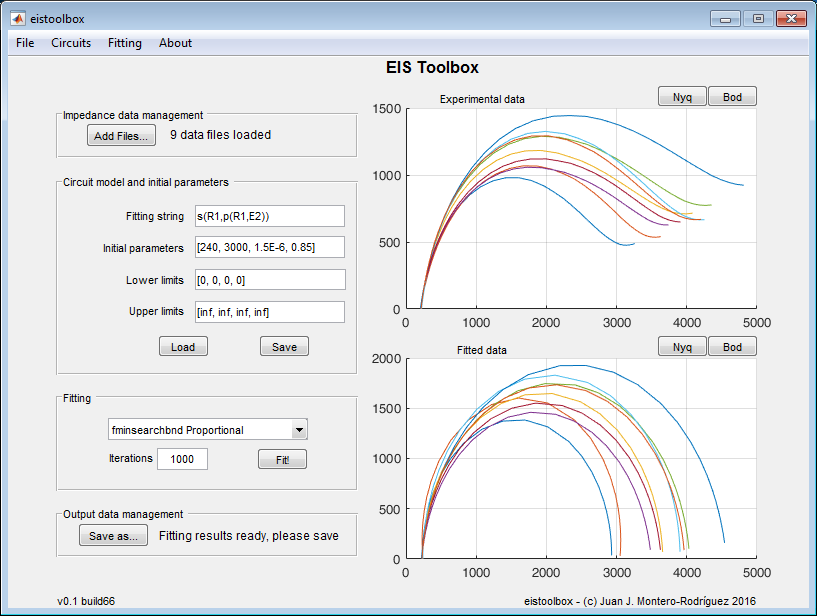
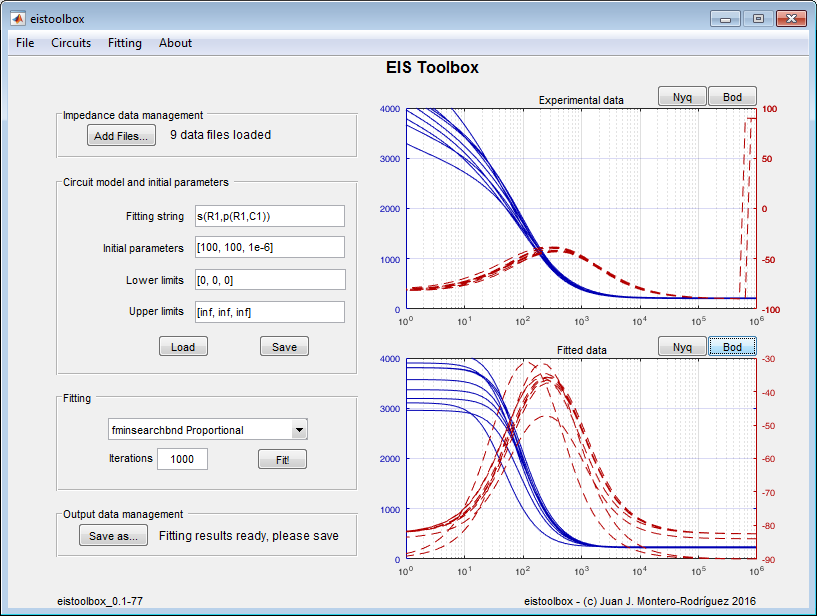
Better Bode plots

diff --git a/eistoolbox.m b/eistoolbox.m
@@ -252,18 +252,24 @@ function plotbod(hObject, eventdata, handles)
     
     % Now we plot all the acquired data from the files
     axes(handles.axes1); % Select the axes 1 for plotting input data (Nyquist)
-    cla reset;  % Clears any old information already present in the diagram
+    cla;  % Clears any old information already present in the diagram
     set(gca,'xscale','log');    % change x axis to log
+    hold on;
     
     for idx=1:length(data)
-        ax = plotyy(data{idx}(:,1),sqrt(data{idx}(:,2).^2 + abs(data{idx}(:,3)).^2 ), ... %magnitude
-            data{idx}(:,1),atan(data{idx}(:,2) ./ data{idx}(:,3)), ... % phase
+        [ax,hLine1,hLine2] = plotyy(data{idx}(:,1),sqrt(data{idx}(:,2).^2 + abs(data{idx}(:,3)).^2 ), ... %magnitude
+            data{idx}(:,1),atan(data{idx}(:,2) ./ data{idx}(:,3))*180/pi, ... % phase
             'semilogx');
+        set(ax(1),'FontSize',7,'YColor',[0 0 0.7]);
+        set(ax(2),'FontSize',7,'YColor',[0.7 0 0]);
+        hLine1.LineStyle = '-';
+        hLine1.Color = [0 0 0.7];
+        hLine2.LineStyle = '--';
+        hLine2.Color = [0.7 0 0];
+        if idx > 1; set(ax(2),'YTick',[]); end % prevents marker overlapping
     end
     
-    set(ax(1),'FontSize',7);
     grid on;
-    set(ax(2),'FontSize',7,'XTick',[]);
     
     disp('Info: Input data files succesfully plotted');
 
@@ -307,16 +313,22 @@ function plotbod2(hObject, eventdata, handles)
     axes(handles.axes2);
     cla reset;  % Clears any old information already present in the diagram
     set(gca,'xscale','log');    % change x axis to log
+    hold on;
     
     for idx=1:length(data)
-        ax = plotyy(data{idx}(:,1),sqrt(zbest{idx}(:,1).^2 + abs(zbest{idx}(:,2)).^2 ), ... %magnitude
-            data{idx}(:,1),atan(zbest{idx}(:,1) ./ zbest{idx}(:,2)), ... % phase
+       [ax,hLine1,hLine2] =  plotyy(data{idx}(:,1),sqrt(zbest{idx}(:,1).^2 + abs(zbest{idx}(:,2)).^2 ), ... %magnitude
+            data{idx}(:,1),atan(zbest{idx}(:,1) ./ zbest{idx}(:,2))*180/pi, ... % phase
             'semilogx'); 
+        set(ax(1),'FontSize',7,'YColor',[0 0 0.7]);
+        set(ax(2),'FontSize',7,'YColor',[0.7 0 0]);
+        hLine1.LineStyle = '-';
+        hLine1.Color = [0 0 0.7];
+        hLine2.LineStyle = '--';
+        hLine2.Color = [0.7 0 0];
+        if idx > 1; set(ax(2),'YTick',[]); end % prevents marker overlapping
     end
-    
-    set(ax(1),'FontSize',7);
+
     grid on;
-    set(ax(2),'FontSize',7,'XTick',[]);
 
     disp('Info: Fitted data succesfully plotted');
     
